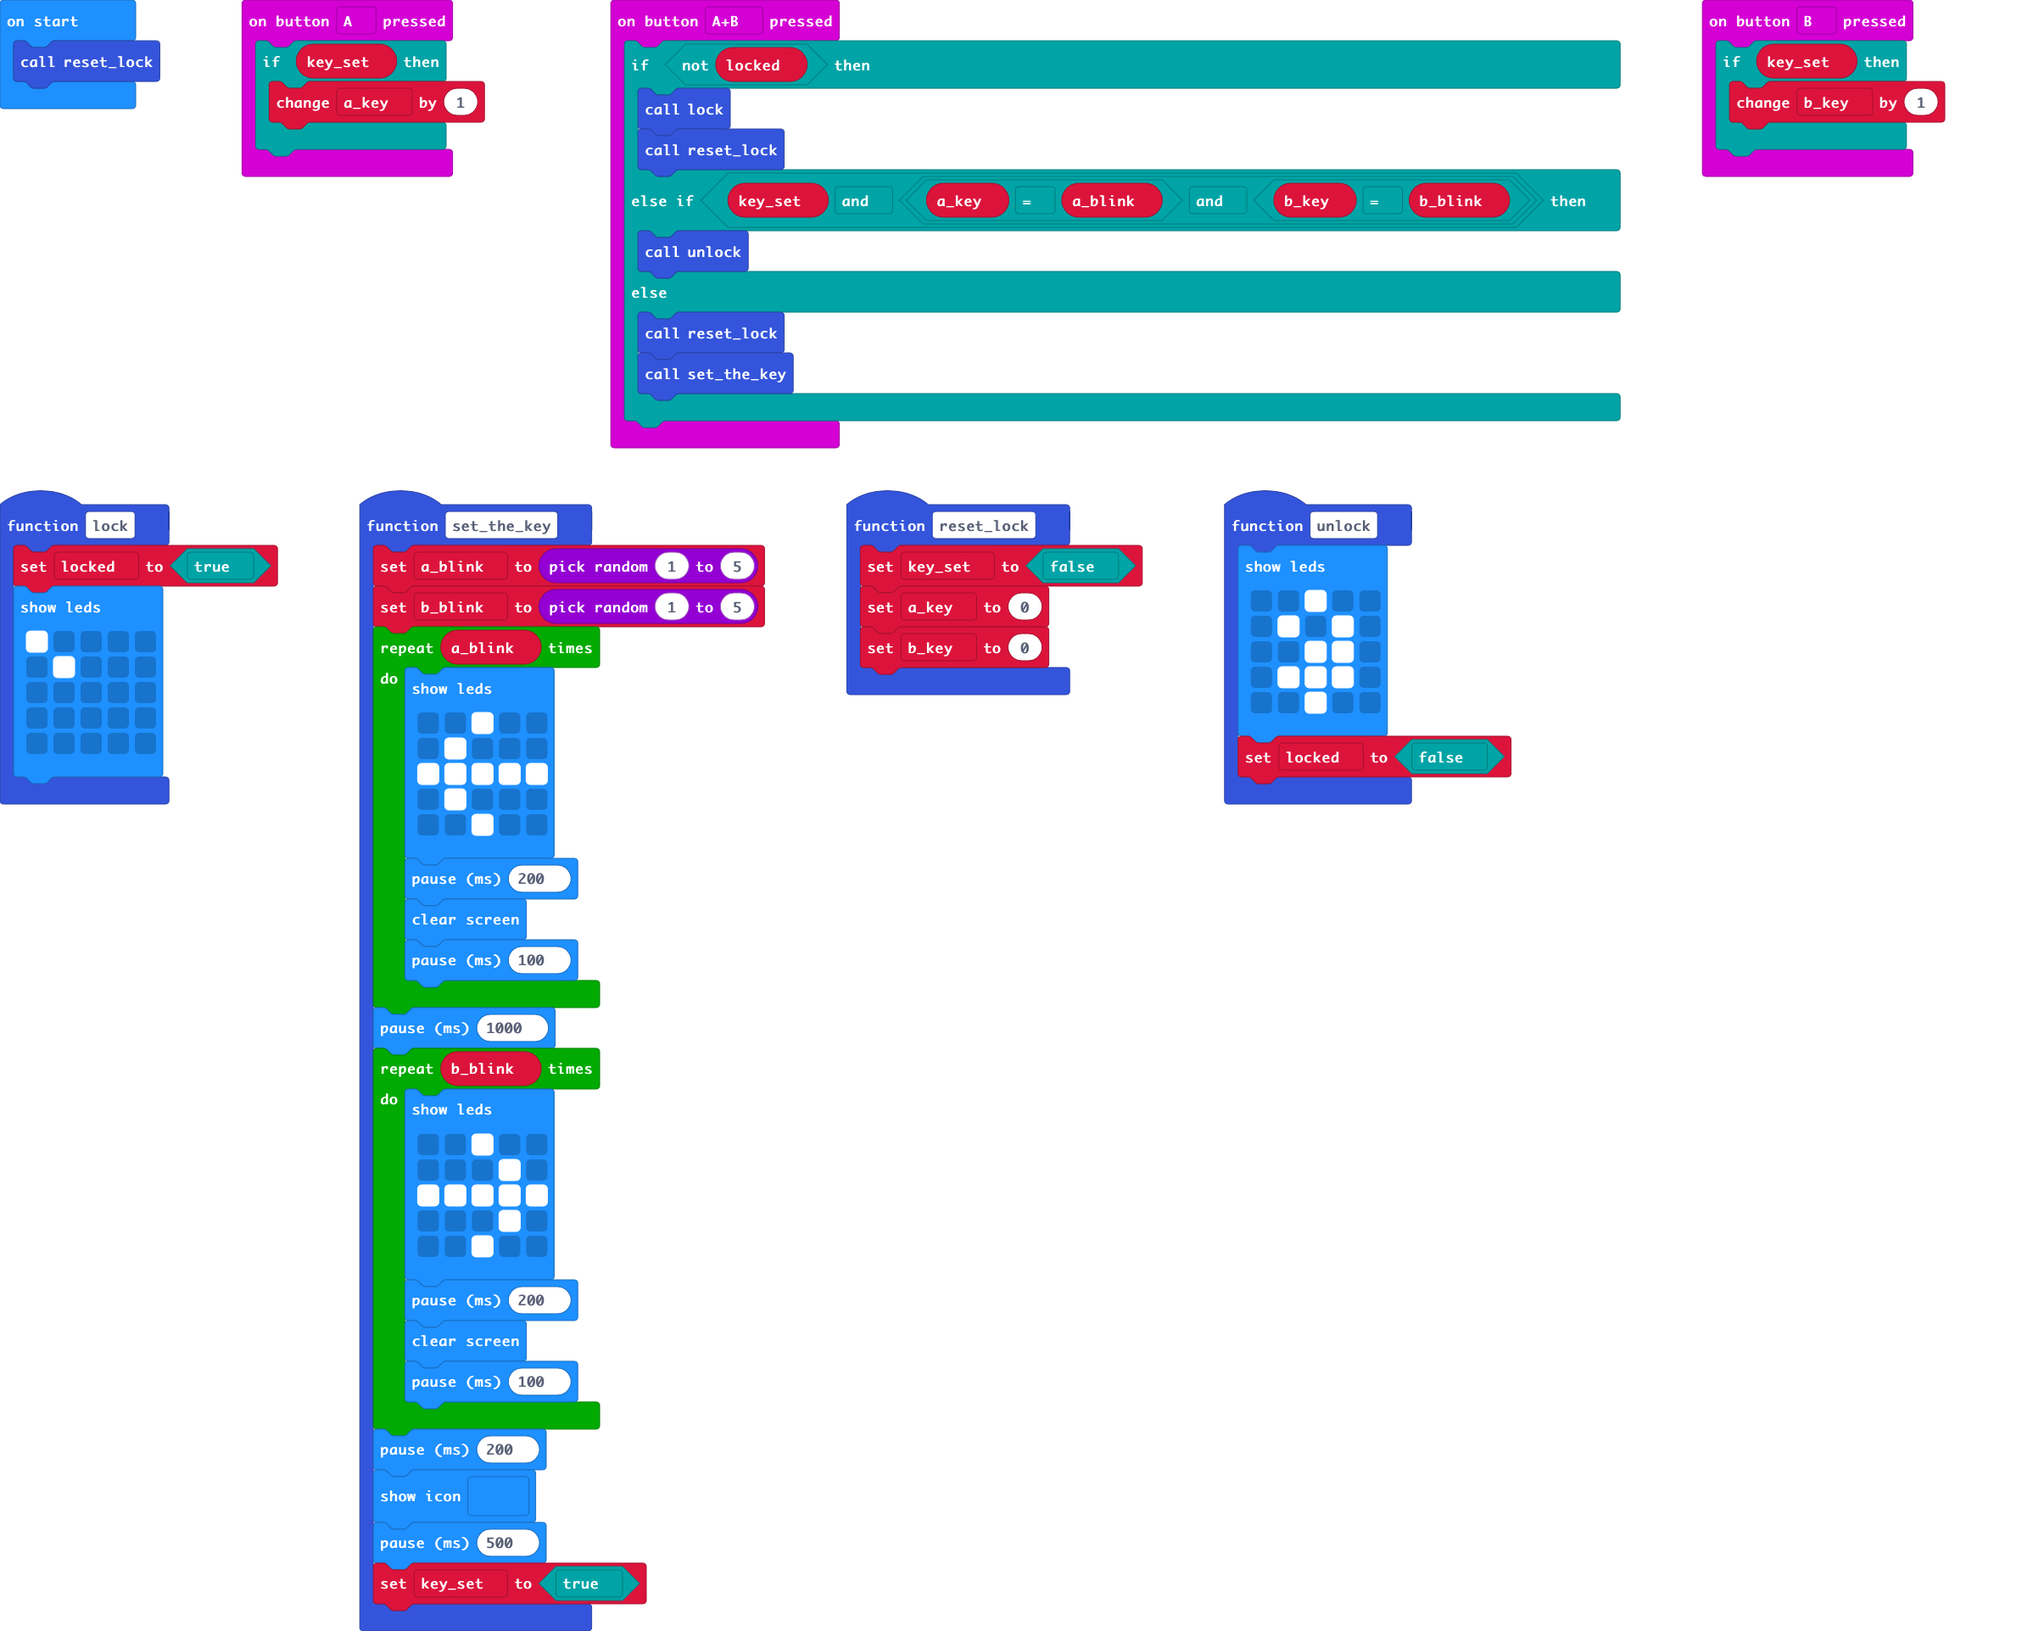
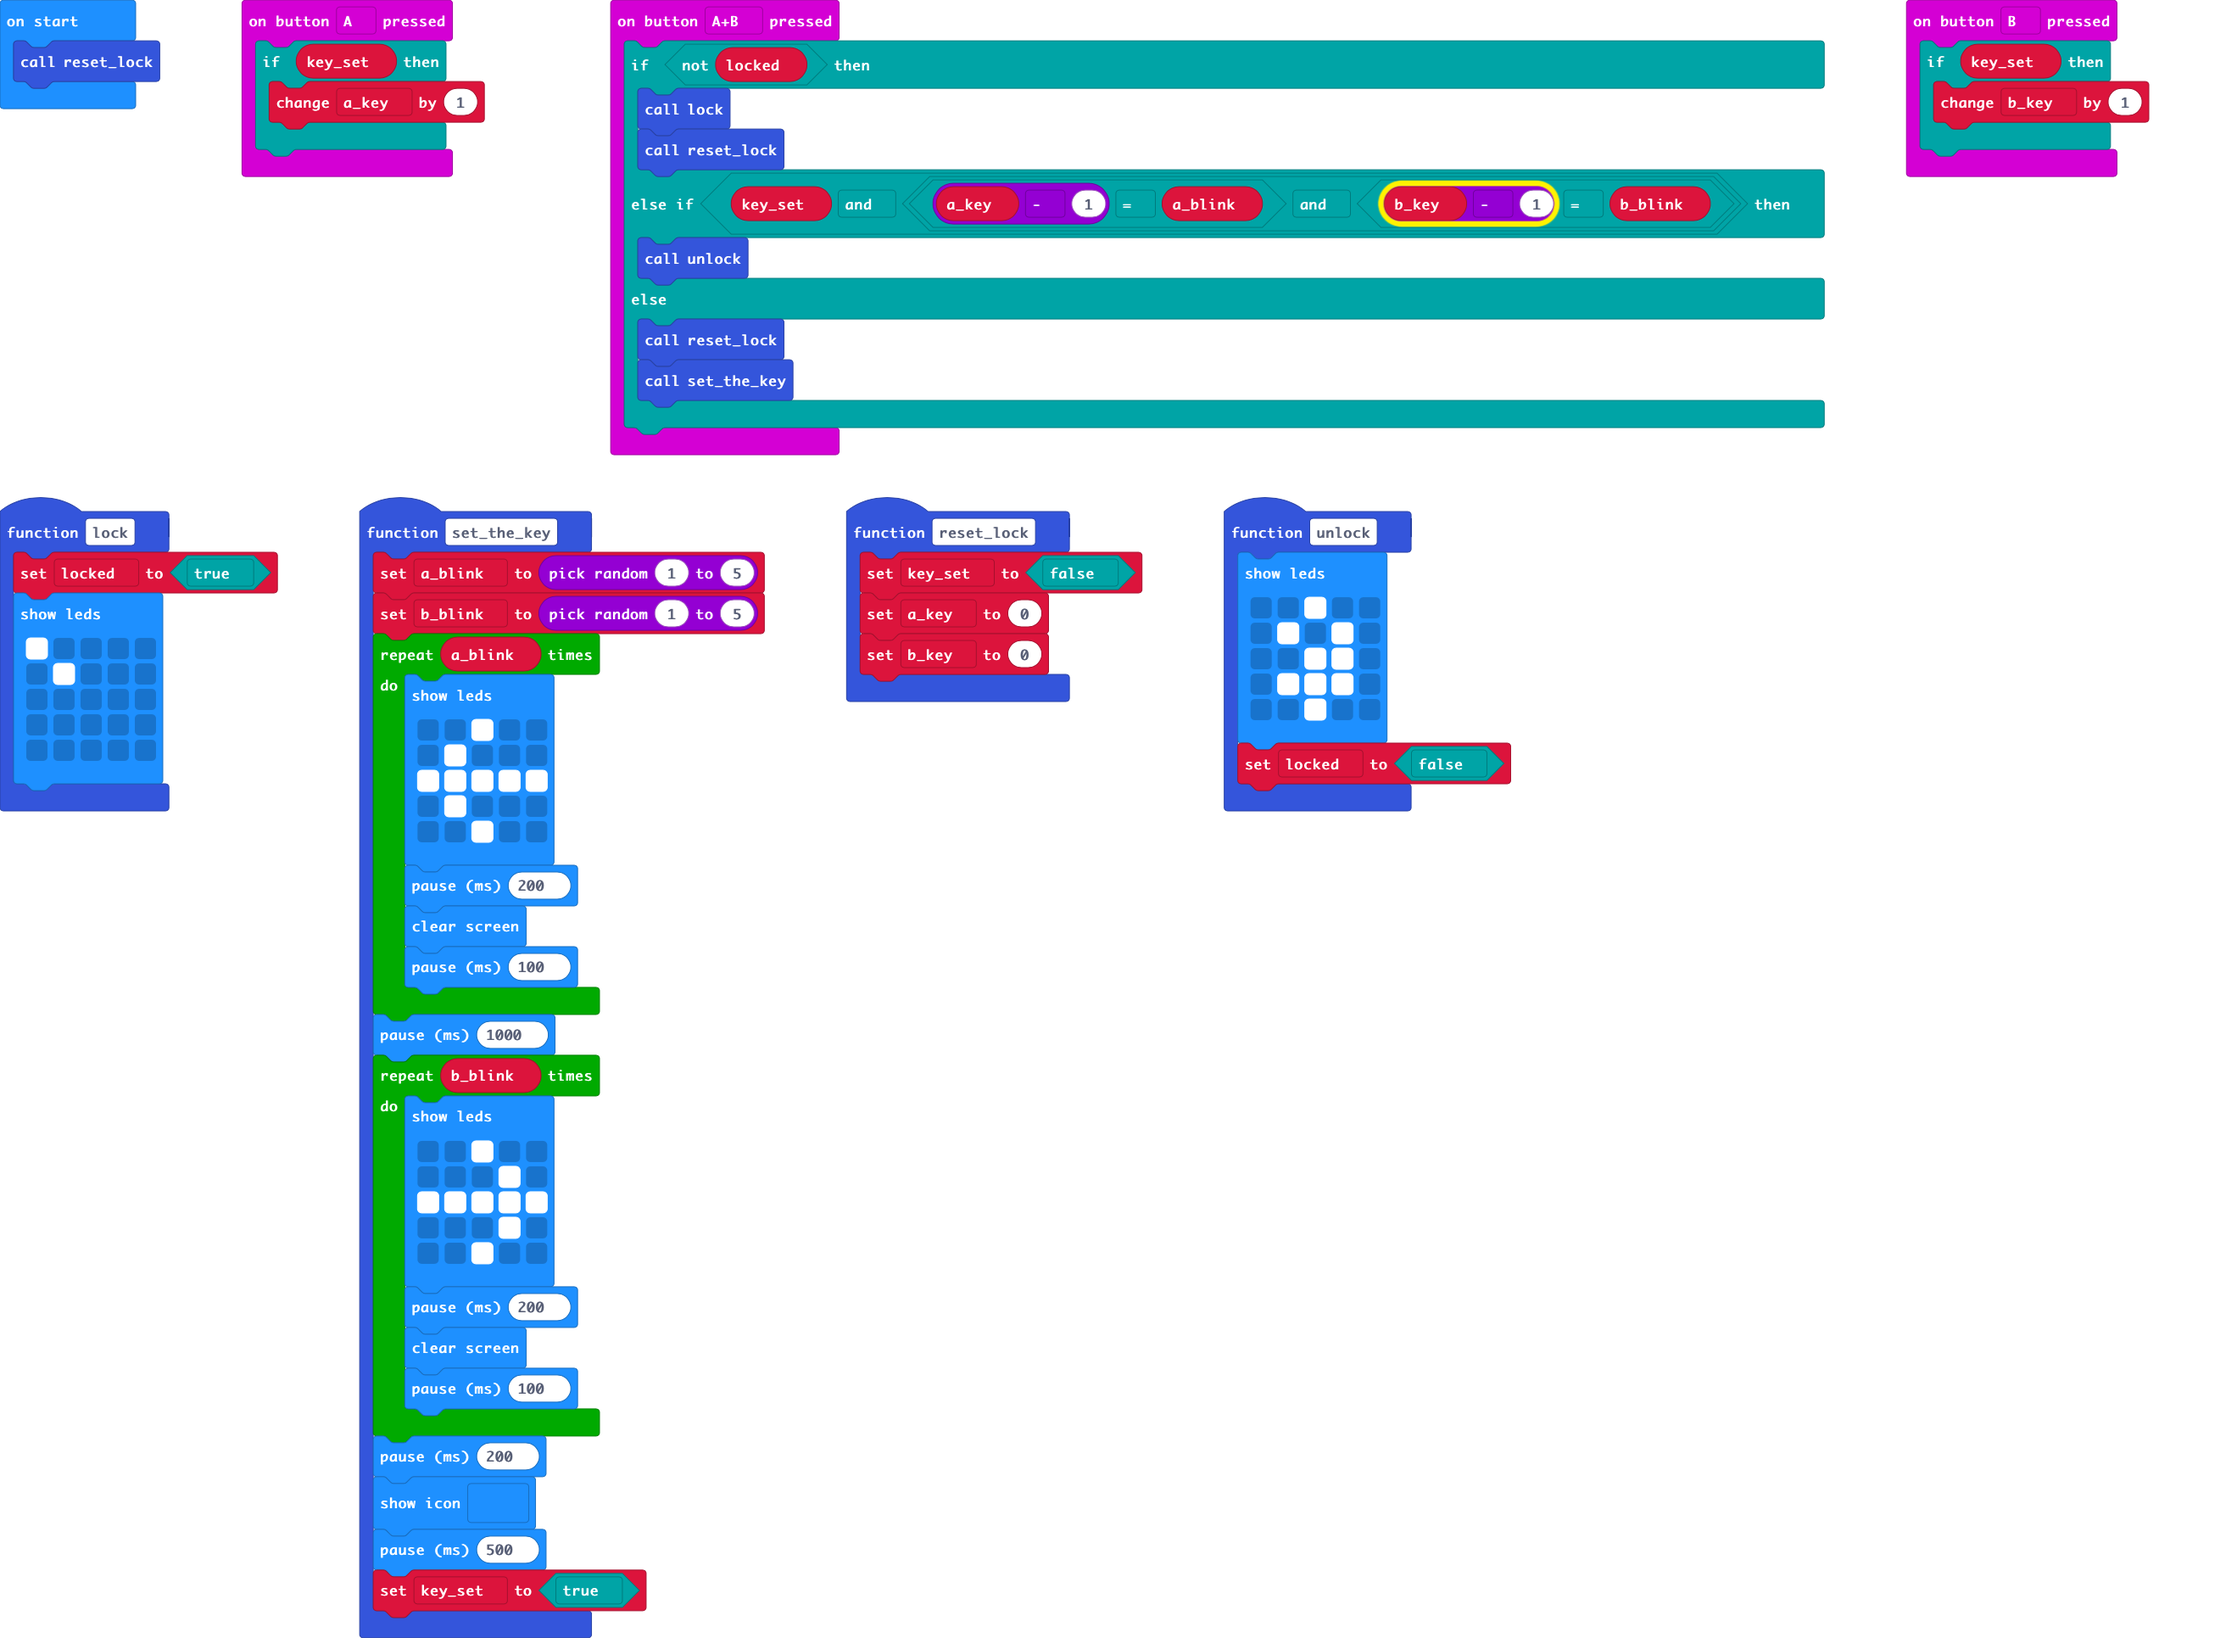
Update main.blocks, main.ts, main.py

Changed region(s): [[0.0, 0.0, 0.957, 1.0]]

diff --git a/main.ts b/main.ts
@@ -17,7 +17,7 @@ input.onButtonPressed(Button.AB, function () {
     if (!(locked)) {
         lock()
         reset_lock()
-    } else if (key_set && (a_key == a_blink && b_key == b_blink)) {
+    } else if (key_set && (a_key - 1 == a_blink && b_key - 1 == b_blink)) {
         unlock()
     } else {
         reset_lock()

diff --git a/main.py b/main.py
@@ -19,7 +19,7 @@ def on_button_pressed_ab():
     if not (locked):
         lock()
         reset_lock()
-    elif key_set and (a_key == a_blink and b_key == b_blink):
+    elif key_set and (a_key + 1 == a_blink and b_key + 1 == b_blink):
         unlock()
     else:
         reset_lock()
@@ -39,10 +39,10 @@ def set_the_key():
     for index in range(a_blink):
         basic.show_leds("""
             . . # . .
-            . # . . .
-            # # # # #
-            . # . . .
-            . . # . .
+                        . # . . .
+                        # # # # #
+                        . # . . .
+                        . . # . .
         """)
         basic.pause(200)
         basic.clear_screen()
@@ -51,10 +51,10 @@ def set_the_key():
     for index2 in range(b_blink):
         basic.show_leds("""
             . . # . .
-            . . . # .
-            # # # # #
-            . . . # .
-            . . # . .
+                        . . . # .
+                        # # # # #
+                        . . . # .
+                        . . # . .
         """)
         basic.pause(200)
         basic.clear_screen()
@@ -72,10 +72,10 @@ def unlock():
     global locked
     basic.show_leds("""
         . . # . .
-        . # . # .
-        . . # # .
-        . # # # .
-        . . # . .
+                . # . # .
+                . . # # .
+                . # # # .
+                . . # . .
     """)
     locked = False
 b_blink = 0
